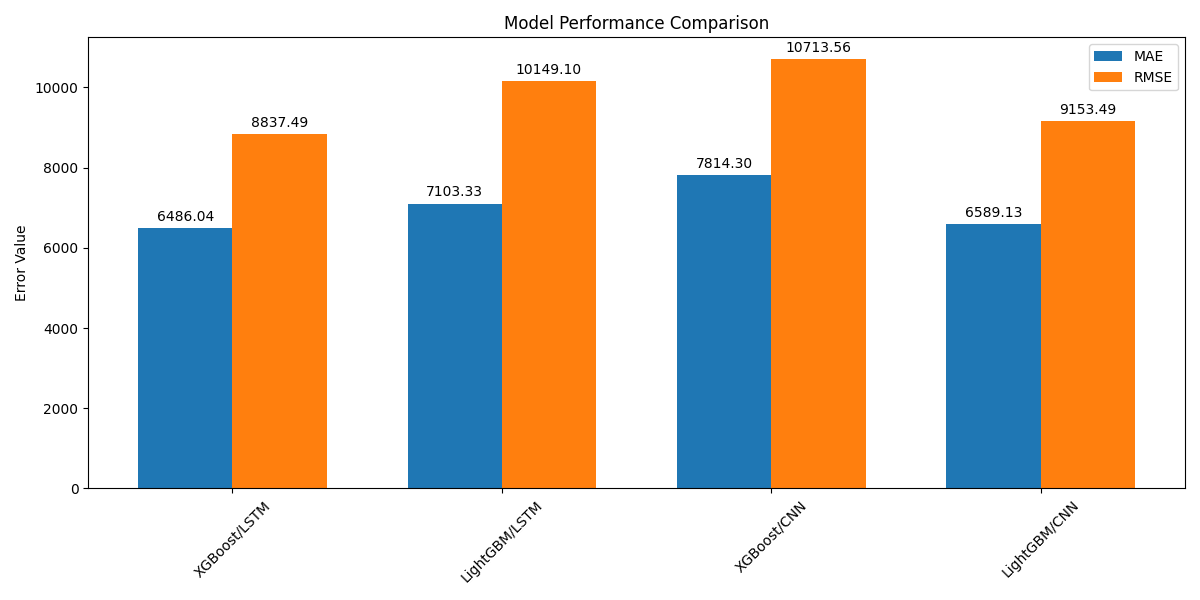
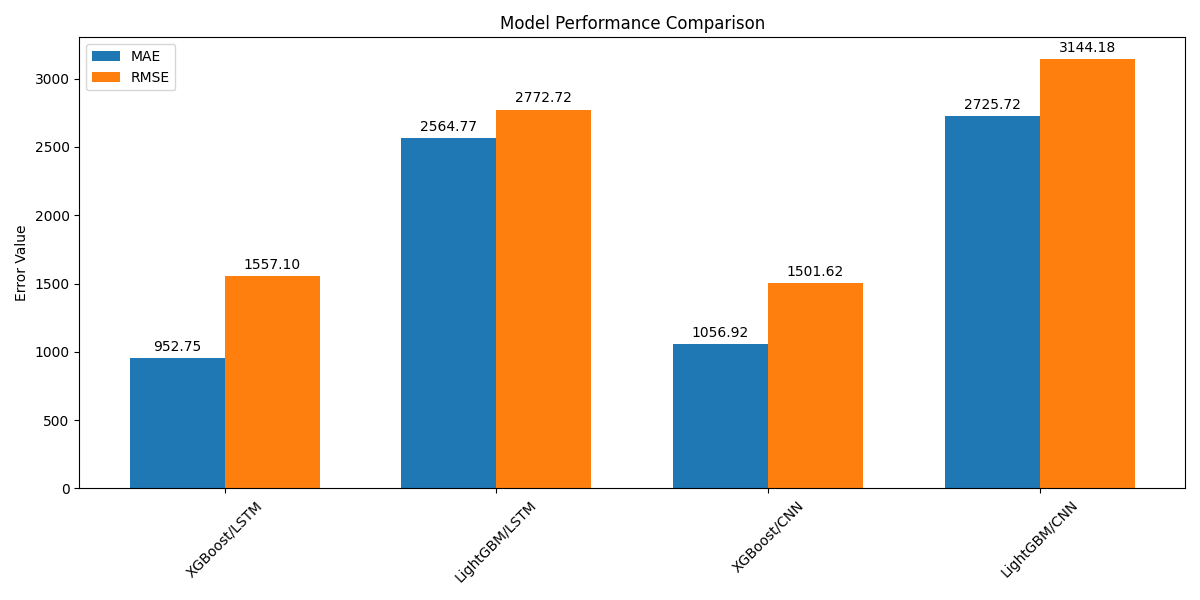
Changed the way the data was splitted, rearranged the code, got better results

diff --git a/models.py b/models.py
@@ -1,11 +1,11 @@
-# models.py
 import xgboost as xgb
 import lightgbm as lgb
-from keras.models import Sequential
-from keras.layers import Dense, LSTM, Conv1D, Flatten, Input, Dropout
-from keras.callbacks import EarlyStopping
+import tensorflow as tf
+from keras.models import Sequential # type: ignore
+from keras.layers import Dense, LSTM, Conv1D, Flatten, Input, Dropout # type: ignore
+from keras.callbacks import EarlyStopping # type: ignore
 import numpy as np
-from sklearn.model_selection import train_test_split
+
 
 class HybridModels:
     def __init__(self, data):
@@ -13,16 +13,28 @@ class HybridModels:
         self.X = data.drop(columns=["score"]).values
         self.y = data["score"].values
         
-        # Implement train-test split (80-20)
-        self.X_train, self.X_test, self.y_train, self.y_test = train_test_split(
-            self.X, self.y, test_size=0.2, random_state=32
-        )
+        # Calculate split sizes
+        train_size = int(len(data) * 0.7)
+        val_size = int(len(data) * 0.2)
+        test_size = len(data) - train_size - val_size
+        
+        # Split the data
+        self.X_train = self.X[:train_size]
+        self.y_train = self.y[:train_size]
+        
+        self.X_val = self.X[train_size:train_size + val_size]
+        self.y_val = self.y[train_size:train_size + val_size]
+        
+        self.X_test = self.X[train_size + val_size:train_size + val_size + test_size]
+        self.y_test = self.y[train_size + val_size:train_size + val_size + test_size]
 
-    def _train_lstm(self, features, epochs=50, batch_size=32):
+    def _train_lstm(self, features, model_name, epochs=50, batch_size=32):
         features_train = features[:self.X_train.shape[0]]
-        features_test = features[self.X_train.shape[0]:]
+        features_val = features[self.X_train.shape[0]:self.X_train.shape[0] + self.X_val.shape[0]]
+        features_test = features[self.X_train.shape[0] + self.X_val.shape[0]:]
 
         lstm_input_train = features_train.reshape((features_train.shape[0], features_train.shape[1], 1))
+        lstm_input_val = features_val.reshape((features_val.shape[0], features_val.shape[1], 1))
         lstm_input_test = features_test.reshape((features_test.shape[0], features_test.shape[1], 1))
         
         lstm_model = Sequential([
@@ -35,17 +47,36 @@ class HybridModels:
         lstm_model.compile(optimizer='adam', loss='mse')
         
         # Early stopping callback
-        early_stopping = EarlyStopping(monitor='val_loss', patience=10, restore_best_weights=True)
-        lstm_model.fit(lstm_input_train, self.y_train, epochs=epochs, 
-                    batch_size=batch_size, verbose=0, validation_split=0.1, callbacks=[early_stopping])
+        early_stopping = EarlyStopping(
+            monitor='val_loss',
+            patience=10,
+            restore_best_weights=True
+        )
         
-        return lstm_model.predict(lstm_input_test).flatten()
+        # Train with validation data
+        history = lstm_model.fit(
+            lstm_input_train, self.y_train,
+            epochs=epochs,
+            batch_size=batch_size,
+            verbose=0,
+            validation_data=(lstm_input_val, self.y_val),
+            callbacks=[early_stopping]
+        )
+        
+        # Evaluate model
+        mse = lstm_model.evaluate(lstm_input_val, self.y_val, verbose=0)
+        rmse = np.sqrt(mse)
+        print(f'{model_name} Validation MSE: {mse:.4f}, RMSE: {rmse:.4f}')
+        
+        return lstm_model.predict(lstm_input_test).flatten() # This only return the performance of the testing set
 
-    def _train_cnn(self, features, epochs=50, batch_size=32):
+    def _train_cnn(self, features, model_name, epochs=50, batch_size=32):
         features_train = features[:self.X_train.shape[0]]
-        features_test = features[self.X_train.shape[0]:]
+        features_val = features[self.X_train.shape[0]:self.X_train.shape[0] + self.X_val.shape[0]]
+        features_test = features[self.X_train.shape[0] + self.X_val.shape[0]:]
         
         cnn_input_train = features_train.reshape((features_train.shape[0], features_train.shape[1], 1))
+        cnn_input_val = features_val.reshape((features_val.shape[0], features_val.shape[1], 1))
         cnn_input_test = features_test.reshape((features_test.shape[0], features_test.shape[1], 1))
         
         cnn_model = Sequential([
@@ -57,50 +88,92 @@ class HybridModels:
         cnn_model.compile(optimizer='adam', loss='mse')
         
         # Early stopping callback
-        early_stopping = EarlyStopping(monitor='val_loss', patience=10, restore_best_weights=True)
-        cnn_model.fit(cnn_input_train, self.y_train, epochs=epochs, 
-                    batch_size=batch_size, verbose=0, validation_split=0.1, callbacks=[early_stopping])
-    
-        return cnn_model.predict(cnn_input_test).flatten()
+        early_stopping = EarlyStopping(
+            monitor='val_loss',
+            patience=10,
+            restore_best_weights=True
+        )
+        
+        # Train with validation data
+        history = cnn_model.fit(
+            cnn_input_train, self.y_train,
+            epochs=epochs,
+            batch_size=batch_size,
+            verbose=0,
+            validation_data=(cnn_input_val, self.y_val),
+            callbacks=[early_stopping]
+        )
+        
+        # Evaluate model
+        mse = cnn_model.evaluate(cnn_input_val, self.y_val, verbose=0)
+        rmse = np.sqrt(mse)
+        print(f'{model_name} Validation MSE: {mse:.4f}, RMSE: {rmse:.4f}')
+        
+        return cnn_model.predict(cnn_input_test).flatten() # This only return the performance of the testing set
+
 
     def xgboost_lstm(self):
-        xgb_model = xgb.XGBRegressor(n_estimators=30, max_depth=40,
-                                    learning_rate=0.01, colsample_bytree=0.8,
-                                    early_stopping_rounds=10 )
-        xgb_model.fit(self.X_train, self.y_train, eval_set=[(self.X_test, self.y_test)], verbose=0)
+        xgb_model = xgb.XGBRegressor(
+            n_estimators=30,
+            max_depth=40,
+            learning_rate=0.01,
+            colsample_bytree=0.8,
+            early_stopping_rounds=10
+        )
+        xgb_model.fit(
+            self.X_train, self.y_train,
+            eval_set=[(self.X_val, self.y_val)],
+            verbose=0
+        )
         xgb_features = xgb_model.apply(self.X)
-        predictions = self._train_lstm(xgb_features)
+        predictions = self._train_lstm(xgb_features, 'xgboost_lstm')
         return predictions, self.y_test
 
     def lightgbm_lstm(self):
-        lgb_model = lgb.LGBMRegressor(n_estimators=40, max_depth=40, 
-                                    learning_rate=0.01, min_split_gain=0.01)
+        lgb_model = lgb.LGBMRegressor(
+            n_estimators=40,
+            max_depth=40,
+            learning_rate=0.01,
+            min_split_gain=0.01
+        )
         lgb_model.fit(
             self.X_train, self.y_train,
-            eval_set=[(self.X_test, self.y_test)],
+            eval_set=[(self.X_val, self.y_val)],
             callbacks=[lgb.early_stopping(10, verbose=0)],
         )
         lgb_features = lgb_model.predict(self.X).reshape(-1, 1)
-        predictions = self._train_lstm(lgb_features)
+        predictions = self._train_lstm(lgb_features, 'lightgbm_lstm')
         return predictions, self.y_test
 
     def xgboost_cnn(self):
-        xgb_model = xgb.XGBRegressor(n_estimators=100, max_depth=40,
-                                    learning_rate=0.01, colsample_bytree=0.8,
-                                    early_stopping_rounds=10) 
-        xgb_model.fit(self.X_train, self.y_train, eval_set=[(self.X_test, self.y_test)], verbose=0)
+        xgb_model = xgb.XGBRegressor(
+            n_estimators=100,
+            max_depth=40,
+            learning_rate=0.01,
+            colsample_bytree=0.8,
+            early_stopping_rounds=10
+        )
+        xgb_model.fit(
+            self.X_train, self.y_train,
+            eval_set=[(self.X_val, self.y_val)],
+            verbose=0
+        )
         xgb_features = xgb_model.apply(self.X)
-        predictions = self._train_cnn(xgb_features)
+        predictions = self._train_cnn(xgb_features, 'xgboost_cnn')
         return predictions, self.y_test
 
     def lightgbm_cnn(self):
-        lgb_model = lgb.LGBMRegressor(n_estimators=40, max_depth=20, 
-                                    learning_rate=0.001, min_split_gain=0.01)
+        lgb_model = lgb.LGBMRegressor(
+            n_estimators=40,
+            max_depth=20,
+            learning_rate=0.001,
+            min_split_gain=0.01
+        )
         lgb_model.fit(
             self.X_train, self.y_train,
-            eval_set=[(self.X_test, self.y_test)],
+            eval_set=[(self.X_val, self.y_val)],
             callbacks=[lgb.early_stopping(10, verbose=0)],
-        ) 
+        )
         lgb_features = lgb_model.predict(self.X).reshape(-1, 1)
-        predictions = self._train_cnn(lgb_features)
+        predictions = self._train_cnn(lgb_features, 'lightgbm_cnn')
         return predictions, self.y_test
